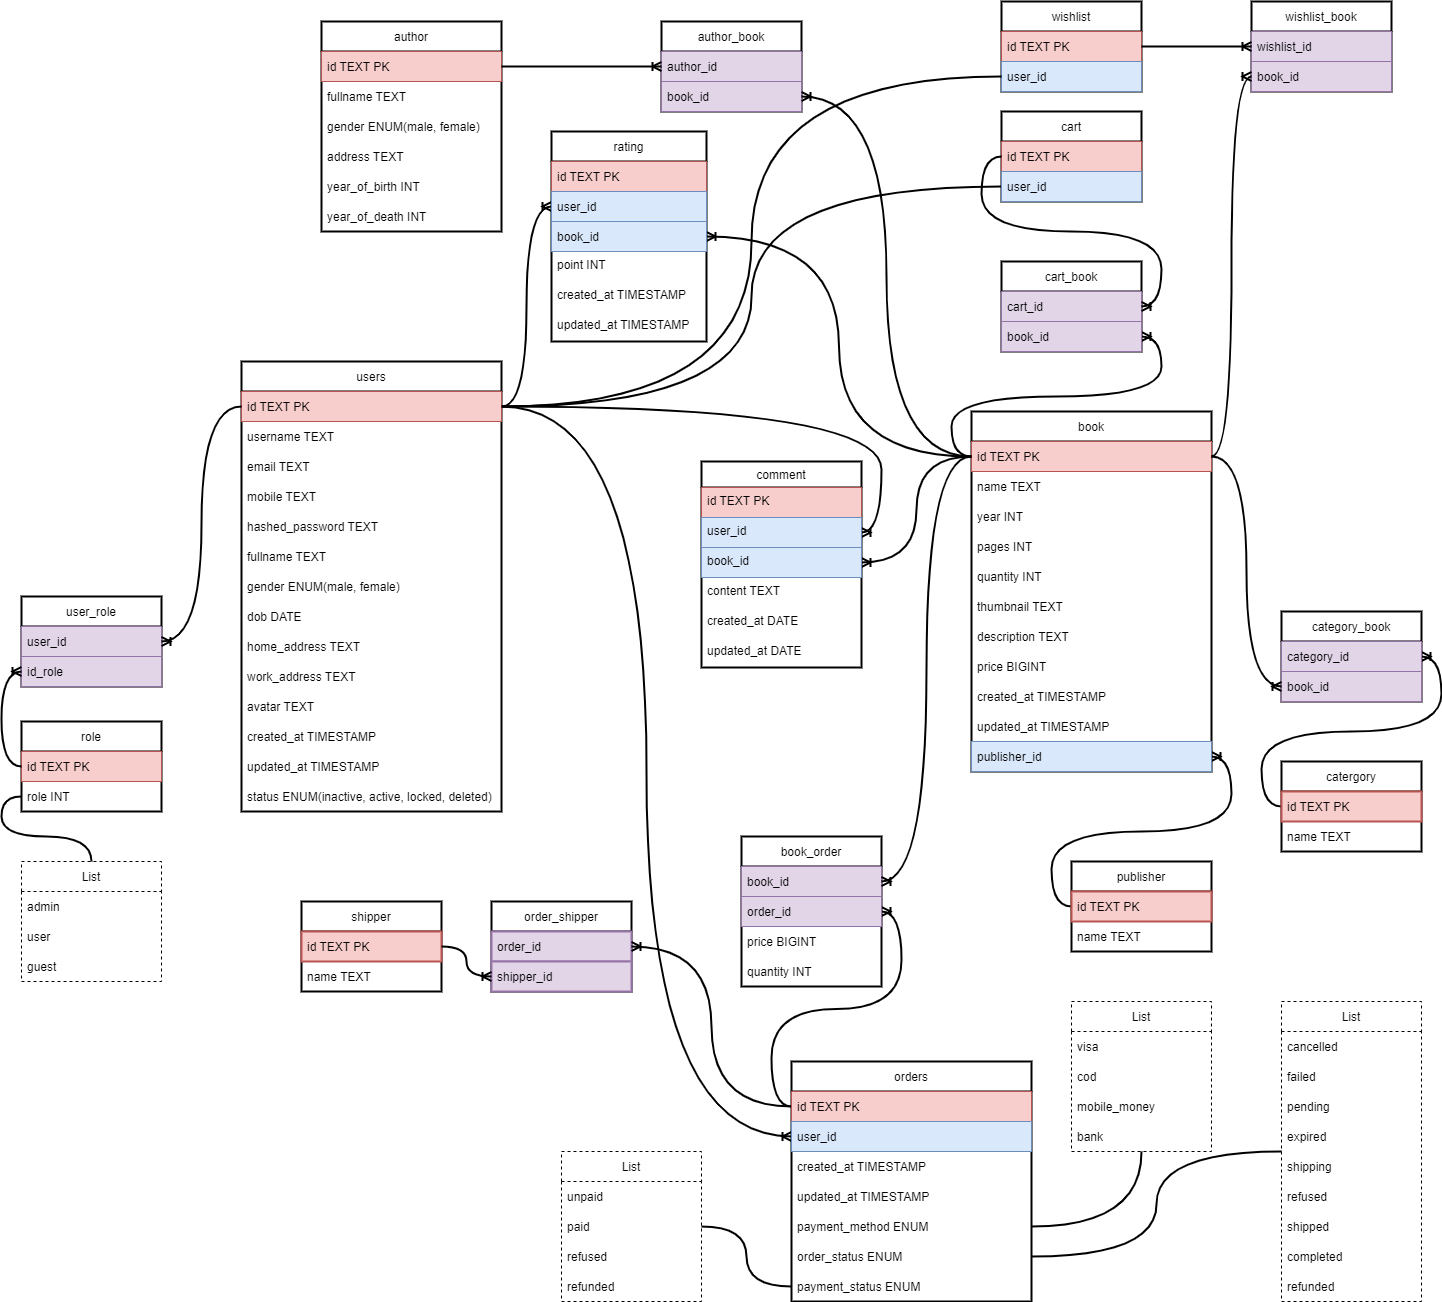
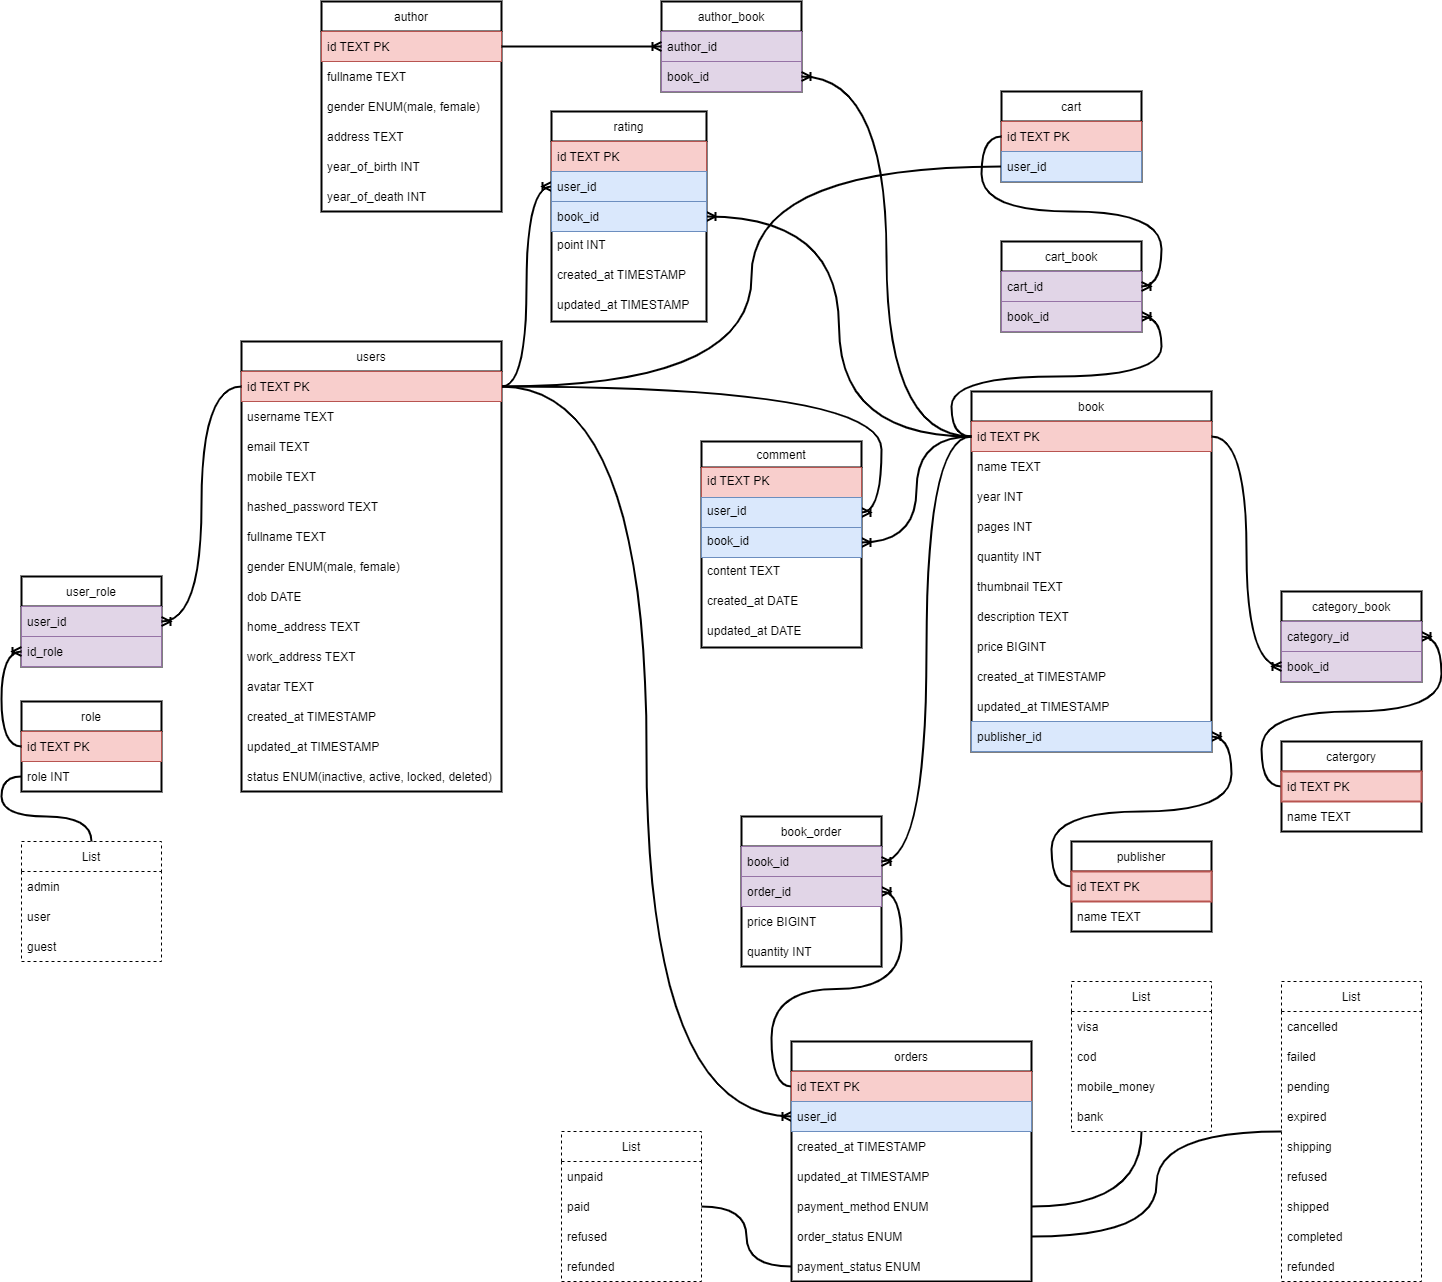
Remove wishlist and shipper

diff --git a/book-online/src/main/java/vn/techmaster/bookonline/entitiy/Order.java b/book-online/src/main/java/vn/techmaster/bookonline/entitiy/Order.java
@@ -50,11 +50,6 @@ public class Order {
     @Column(name = "updated_at", columnDefinition = "TIMESTAMP")
     private LocalDateTime updatedAt;
 
-    @ManyToMany
-    @JoinTable(name = "order_shipper", joinColumns = @JoinColumn(name = "order_id"),
-            inverseJoinColumns = @JoinColumn(name = "shipper_id"))
-    private Set<Shipper> shippers = new LinkedHashSet<>();
-
     @OneToMany(mappedBy = "order")
     private Set<OrderBook> orderBooks = new LinkedHashSet<>();
 
